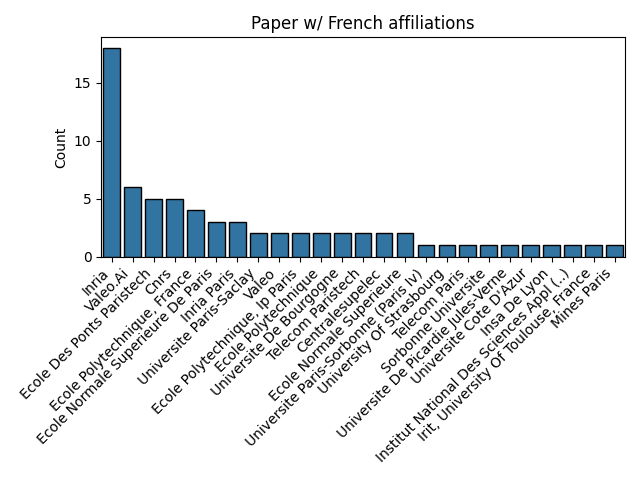
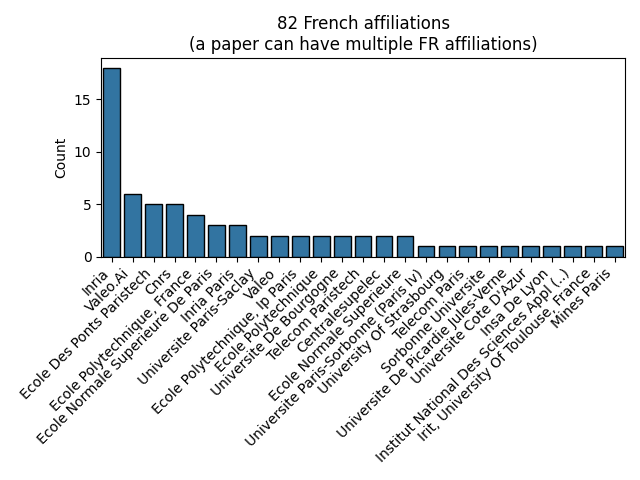
update

diff --git a/fr_stats.py b/fr_stats.py
@@ -54,7 +54,7 @@ def is_french(list):
 
 conf_path = os.path.join('thirdparty','paperlists',conf)
 f = open(conf_path)
-data = json.load(f)
+data = np.asarray(json.load(f))
 
 
 
@@ -64,26 +64,13 @@ for i, paper in enumerate(tqdm(data)):
     aff = paper["aff"]
     # aff = re.sub("(?i)university", "uni.", paper["aff"])
     # aff = re.sub("(?i)institute", "inst.", paper["aff"])
+    paper["authors"] = string_preprocess(paper["author"].split(", "))
     paper["affiliations"] = string_preprocess(np.asarray(aff.split("; ")))
     paper["affiliations"] = paper["affiliations"][paper["affiliations"]!=""]
 
 aff_all = np.hstack([paper["affiliations"] for paper in data])
 aff_u, aff_u_c = np.unique(aff_all, return_counts=True)
 aff_stats = d = {**dict(zip(aff_u, aff_u_c))}
-
-
-
-print("Count authors affiliations")
-plt.figure()
-s = aff_u_c.argsort()[::-1][:25]
-sns.barplot(aff_u_c[s], edgecolor="black")
-plt.xticks(range(len(aff_u_c[s])), [s if len(s) < 35+5 else s[:35]+" (..)" for s in aff_u[s]], rotation=45, ha='right')
-
-# plt.xlabel("Affiliations")
-plt.ylabel("Count")
-plt.title("Authors affiliations\n(can be more than one per author/paper)")
-plt.tight_layout()
-plt.savefig("author_affiliations.png")
 
 
 
@@ -101,34 +88,22 @@ sns.barplot(aff_u_papers[s], edgecolor="black")
 plt.xticks(range(len(aff_u_papers[s])), [s if len(s) < 35+5 else s[:35]+" (..)" for s in aff_u[s]], rotation=45, ha='right')
 
 plt.ylabel("Count")
-plt.title("Paper affiliations")
+plt.title("%d Affiliations\n(a paper can have multiple affiliations)"%(sum(aff_u_papers)))
 plt.tight_layout()
 plt.savefig("papers_affiliations.png")
 
 
 
-print("Count French authors affiliations")
+print("Compute FR affiliations")
 fr_mask = is_french(aff_u)
-
 aff_fr_u = aff_u[fr_mask]
 aff_fr_u_c = aff_u_c[fr_mask]
 
 print("Found FR affiliations: ", aff_fr_u)
 
-plt.figure()
-s = aff_fr_u_c.argsort()[::-1][:25]
-sns.barplot(aff_fr_u_c[s], edgecolor="black")
-plt.xticks(range(len(aff_fr_u_c[s])), [s if len(s) < 35+5 else s[:35]+" (..)" for s in aff_fr_u[s]], rotation=45, ha='right')
-
-# plt.xlabel("Affiliations")
-plt.ylabel("Count")
-plt.title("French authors affiliations\n(can be more than one per author/paper)")
-plt.tight_layout()
-plt.savefig("fr_authors_affiliations.png")
 
 
-
-print("Count paper w/ French affiliations")
+print("French affiliations")
 aff_fr_u_papers = np.zeros(aff_fr_u.shape)
 for i, aff in enumerate(tqdm(aff_fr_u)):
     aff_fr_u_papers[i] = np.sum([np.any(paper["affiliations"]==aff) for paper in data])
@@ -139,7 +114,7 @@ sns.barplot(aff_fr_u_papers[s], edgecolor="black")
 plt.xticks(range(len(aff_fr_u_papers[s])), [s if len(s) < 35+5 else s[:35]+" (..)" for s in aff_fr_u[s]], rotation=45, ha='right')
 
 plt.ylabel("Count")
-plt.title("Paper w/ French affiliations")
+plt.title("%d French affiliations\n(a paper can have multiple FR affiliations)"%(sum(aff_fr_u_papers)))
 plt.tight_layout()
 plt.savefig("fr_papers_affiliations.png")
 
@@ -148,7 +123,11 @@ data_fr = np.zeros(len(data), dtype=int)
 for i, paper in enumerate(tqdm(data)):
     data_fr[i] = np.sum([np.any(paper["affiliations"]==a_fr) for a_fr in aff_fr_u])
 
+data_fr_authors = np.unique(np.hstack([paper["authors"] for paper in data[data_fr>0]]))
+
 print("Total affiliations: ", sum(data_fr))
 print("Paper w/ at least 1 FR affiliation: ", sum(data_fr>0))
+print("     # of authors: ", len(data_fr_authors))
+print("     authors: ", data_fr_authors)
 
 plt.show()
